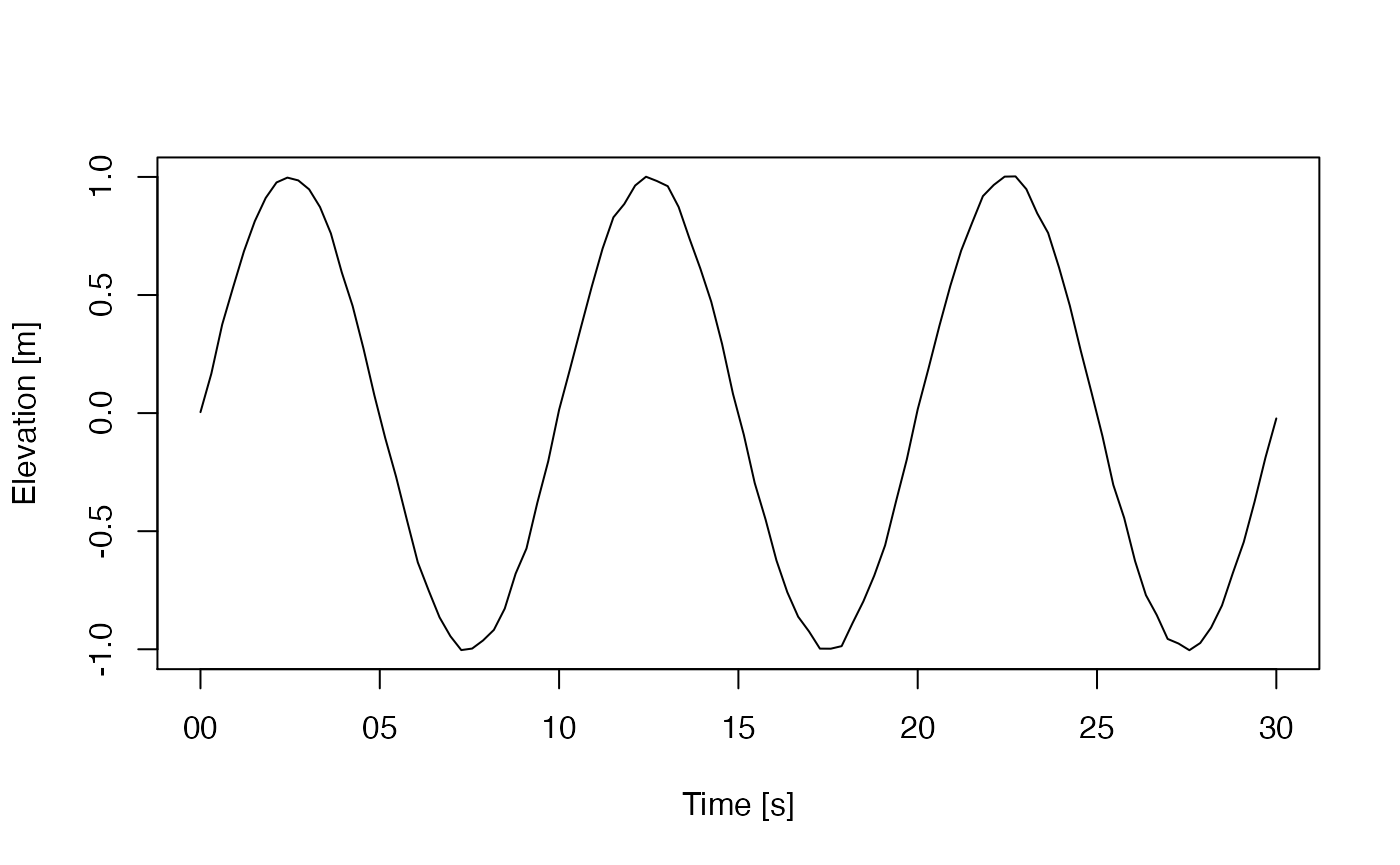
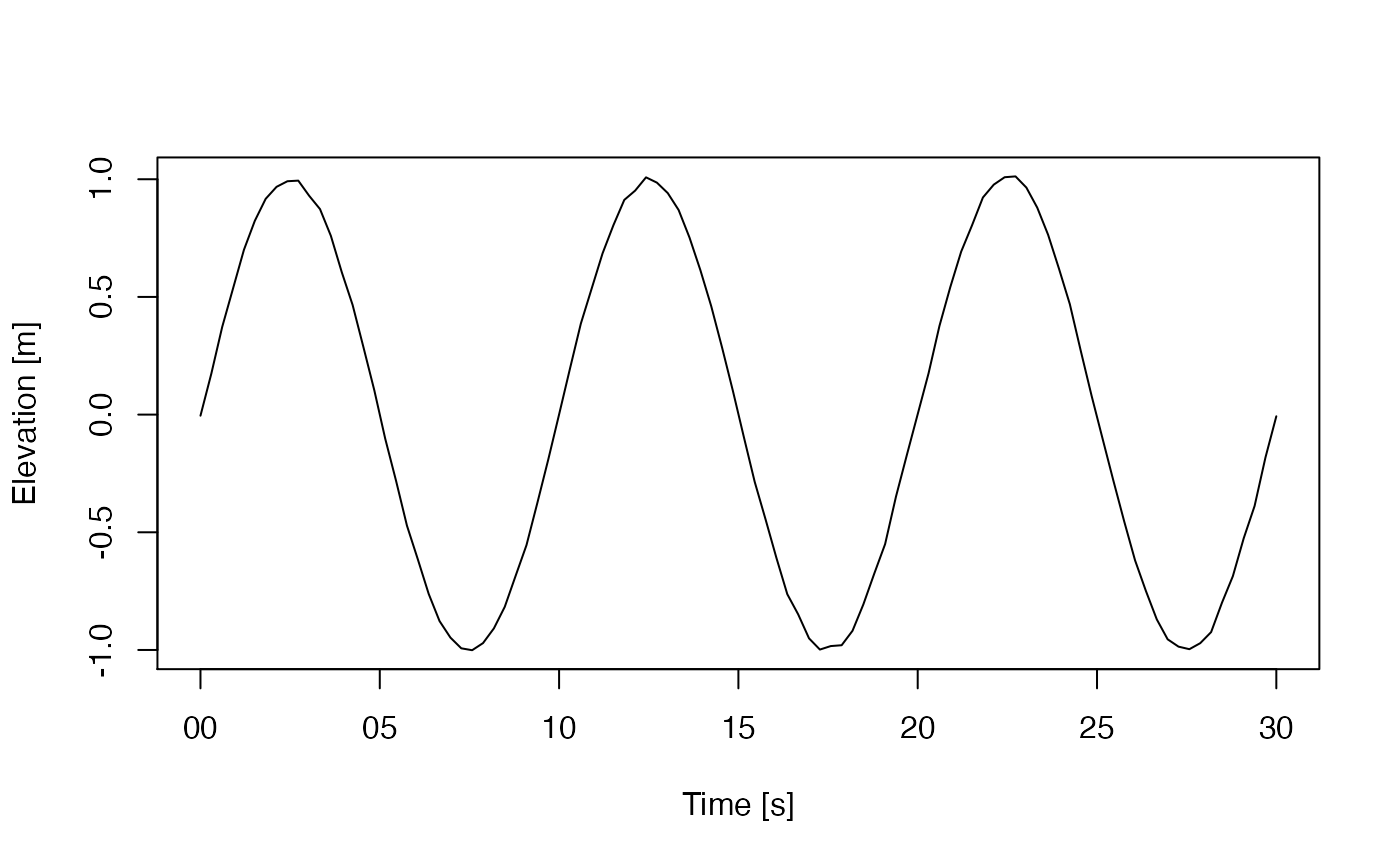
pkgdown rebuild (test: first fig in README)

diff --git a/docs/articles/subclassing.html b/docs/articles/subclassing.html
@@ -141,7 +141,7 @@
 <span class="co">#&gt;   .. ..$ flags: list()</span>
 <span class="co">#&gt;   ..@ data         : list()</span>
 <span class="co">#&gt;   ..@ processingLog:List of 2</span>
-<span class="co">#&gt;   .. ..$ time : POSIXct[1:1], format: "2021-01-27 12:00:09"</span>
+<span class="co">#&gt;   .. ..$ time : POSIXct[1:1], format: "2021-01-27 13:30:46"</span>
 <span class="co">#&gt;   .. ..$ value: chr "Create oce object"</span></code></pre></div>
 <p>As noted previously, it’s possible to insert <code>t</code>, <code>u</code>, and <code>v</code> directly into the <code>data</code> slot, but it’s better to use <code>oceSetData</code> to do that, because it can set up units, and it leaves a trail in the processing log.</p>
 <div class="sourceCode" id="cb4"><pre class="downlit sourceCode r">
@@ -164,12 +164,12 @@
 <span class="co">#&gt; </span>
 <span class="co">#&gt; * Processing Log</span>
 <span class="co">#&gt; </span>
-<span class="co">#&gt;     - 2021-01-27 12:00:09 UTC: `Create oce object`</span>
-<span class="co">#&gt;     - 2021-01-27 12:00:09 UTC: `oceSetData(object = o, name = "t", value = t, unit = list(unit = expression(s),     scale = ""))`</span>
-<span class="co">#&gt;     - 2021-01-27 12:00:09 UTC: `oceSetData(object = o, name = "u", value = u, unit = list(unit = expression(m/s),     scale = ""))`</span>
-<span class="co">#&gt;     - 2021-01-27 12:00:09 UTC: `oceSetData(object = o, name = "v", value = v, unit = list(unit = expression(m/s),     scale = ""))`</span>
-<span class="co">#&gt;     - 2021-01-27 12:00:09 UTC: `oceSetMetadata(object = o, name = "longitude", value = lon)`</span>
-<span class="co">#&gt;     - 2021-01-27 12:00:09 UTC: `oceSetMetadata(object = o, name = "latitude", value = lat)`</span></code></pre></div>
+<span class="co">#&gt;     - 2021-01-27 13:30:46 UTC: `Create oce object`</span>
+<span class="co">#&gt;     - 2021-01-27 13:30:46 UTC: `oceSetData(object = o, name = "t", value = t, unit = list(unit = expression(s),     scale = ""))`</span>
+<span class="co">#&gt;     - 2021-01-27 13:30:46 UTC: `oceSetData(object = o, name = "u", value = u, unit = list(unit = expression(m/s),     scale = ""))`</span>
+<span class="co">#&gt;     - 2021-01-27 13:30:46 UTC: `oceSetData(object = o, name = "v", value = v, unit = list(unit = expression(m/s),     scale = ""))`</span>
+<span class="co">#&gt;     - 2021-01-27 13:30:46 UTC: `oceSetMetadata(object = o, name = "longitude", value = lon)`</span>
+<span class="co">#&gt;     - 2021-01-27 13:30:46 UTC: `oceSetMetadata(object = o, name = "latitude", value = lat)`</span></code></pre></div>
 <p>and individual data components may be extracted with the <code><a href="https://rdrr.io/r/base/Extract.html">[[</a></code> notation</p>
 <div class="sourceCode" id="cb7"><pre class="downlit sourceCode r">
 <code class="sourceCode R"><span class="va">o</span><span class="op">[[</span><span class="st">"latitude"</span><span class="op">]</span><span class="op">]</span>                        <span class="co"># from metadata</span>
@@ -247,7 +247,7 @@
 <span class="co">#&gt; </span>
 <span class="co">#&gt; * Processing Log</span>
 <span class="co">#&gt; </span>
-<span class="co">#&gt;     - 2021-01-27 12:00:09 UTC: `create 'uv' object`</span>
+<span class="co">#&gt;     - 2021-01-27 13:30:46 UTC: `create 'uv' object`</span>
 <span class="co">#&gt; NULL</span></code></pre></div>
 <p>Finally, let’s make a custom method for <code>plot</code>. This is usually the most complicated part of handling any new object class, because there are usually many ways to look at data. (Some <code>oce</code> objects have over a dozen specialized plot styles.) Let’s suppose there are only two desired plot styles: one showing timeseries of <code>u</code> and <code>v</code> in a two panel plot, and the other showing how <code>u</code> and <code>v</code> covary.</p>
 <div class="sourceCode" id="cb14"><pre class="downlit sourceCode r">
@@ -319,7 +319,7 @@
 <span class="co">#&gt;   .. ..$ flags: list()</span>
 <span class="co">#&gt;   ..@ data         : list()</span>
 <span class="co">#&gt;   ..@ processingLog:List of 2</span>
-<span class="co">#&gt;   .. ..$ time : POSIXct[1:1], format: "2021-01-27 12:00:10"</span>
+<span class="co">#&gt;   .. ..$ time : POSIXct[1:1], format: "2021-01-27 13:30:47"</span>
 <span class="co">#&gt;   .. ..$ value: chr "Create oce object"</span></code></pre></div>
 <p>Notice that <code>w</code> three <code>oce</code> “slots”, named <code>metadata</code>, <code>data</code> and <code>processingLog</code>. These are inherited from <code>oce</code>. The first is meant to hold information about the data, such as a file-name, an instrument number, a location of sampling, etc. The second is meant to hold actual data or measurements. And the third, not normally accessed by the user directly, holds information about the object’s evolution (note that the object considers itself an <code>oce</code> object). The names of these three slots are usually enough to keep them straight in the analyst’s head, although it can sometimes be difficult deciding whether something belongs in <code>metadata</code> or <code>data</code>.</p>
 <p>The <code>oce</code> system also provides its objects with certain operators and functions. For example, <code><a href="https://rdrr.io/r/base/Extract.html">[[</a></code> can be used to retrieve the slots, items within the slots, and (in some cases) values that may be calculated from the contents of the slots (e.g. <code>ctd</code> and similar objects related to hydrography can return calculated potential temperature or Conservative Temperature, even though neither is typically stored in such datasets).</p>
@@ -352,7 +352,7 @@
 <span class="co">#&gt;   .. ..$ station: chr "STN01"</span>
 <span class="co">#&gt;   ..@ data         : list()</span>
 <span class="co">#&gt;   ..@ processingLog:List of 2</span>
-<span class="co">#&gt;   .. ..$ time : POSIXct[1:1], format: "2021-01-27 12:00:10"</span>
+<span class="co">#&gt;   .. ..$ time : POSIXct[1:1], format: "2021-01-27 13:30:47"</span>
 <span class="co">#&gt;   .. ..$ value: chr "Create oce object"</span></code></pre></div>
 <p>However, there is a better way to insert metadata, with the <code>oceSetMetadata</code> function, e.g.</p>
 <div class="sourceCode" id="cb26"><pre class="downlit sourceCode r">
@@ -382,15 +382,15 @@
 <span class="co">#&gt; * Time ranges from 2019-01-01 to 2019-01-01 00:00:30 with 100 samples and mean increment 0.3030303 s</span>
 <span class="co">#&gt; * Data Overview</span>
 <span class="co">#&gt; </span>
-<span class="co">#&gt;                 Min.       Mean   Max. Dim. NAs OriginalName</span>
-<span class="co">#&gt;     elevation -1.004 -0.0021451 1.0023  100   0            -</span>
+<span class="co">#&gt;                 Min.      Mean   Max. Dim. NAs OriginalName</span>
+<span class="co">#&gt;     elevation -1.001 0.0006672 1.0121  100   0            -</span>
 <span class="co">#&gt; </span>
 <span class="co">#&gt; * Processing Log</span>
 <span class="co">#&gt; </span>
-<span class="co">#&gt;     - 2021-01-27 12:00:10 UTC: `Create oce object`</span>
-<span class="co">#&gt;     - 2021-01-27 12:00:10 UTC: `oceSetMetadata(object = w, name = "serialNumber", value = 1234)`</span>
-<span class="co">#&gt;     - 2021-01-27 12:00:10 UTC: `oceSetData(object = w, name = "time", value = t)`</span>
-<span class="co">#&gt;     - 2021-01-27 12:00:10 UTC: `oceSetData(object = w, name = "elevation", value = e)`</span></code></pre></div>
+<span class="co">#&gt;     - 2021-01-27 13:30:47 UTC: `Create oce object`</span>
+<span class="co">#&gt;     - 2021-01-27 13:30:47 UTC: `oceSetMetadata(object = w, name = "serialNumber", value = 1234)`</span>
+<span class="co">#&gt;     - 2021-01-27 13:30:48 UTC: `oceSetData(object = w, name = "time", value = t)`</span>
+<span class="co">#&gt;     - 2021-01-27 13:30:48 UTC: `oceSetData(object = w, name = "elevation", value = e)`</span></code></pre></div>
 <p>This produces a useful summary not just of the data, but also of how the object was constructed. But we can do better. In some crazy world, someone might consider measuring elevation in feet, not metres, and so we ought to specify the unit. The way to do this is with the <code>unit</code> argument of <code>oceSetData</code>. This is a somewhat tricky argument, as a study of the result of <code><a href="../reference/oceSetData.html">?oceSetData</a></code> will reveal. For now, we just show a common way, without explanation, writing</p>
 <div class="sourceCode" id="cb31"><pre class="downlit sourceCode r">
 <code class="sourceCode R"><span class="va">w</span> <span class="op">&lt;-</span> <span class="fu"><a href="../reference/oceSetData.html">oceSetData</a></span><span class="op">(</span><span class="va">w</span>, <span class="st">"elevation"</span>, <span class="va">e</span>, unit<span class="op">=</span><span class="fu"><a href="https://rdrr.io/r/base/list.html">list</a></span><span class="op">(</span>unit<span class="op">=</span><span class="fu"><a href="https://rdrr.io/r/base/expression.html">expression</a></span><span class="op">(</span><span class="va">m</span><span class="op">)</span>,scale<span class="op">=</span><span class="st">""</span><span class="op">)</span><span class="op">)</span></code></pre></div>
@@ -400,16 +400,16 @@
 <span class="co">#&gt; * Time ranges from 2019-01-01 to 2019-01-01 00:00:30 with 100 samples and mean increment 0.3030303 s</span>
 <span class="co">#&gt; * Data Overview</span>
 <span class="co">#&gt; </span>
-<span class="co">#&gt;                     Min.       Mean   Max. Dim. NAs OriginalName</span>
-<span class="co">#&gt;     elevation [m] -1.004 -0.0021451 1.0023  100   0            -</span>
+<span class="co">#&gt;                     Min.      Mean   Max. Dim. NAs OriginalName</span>
+<span class="co">#&gt;     elevation [m] -1.001 0.0006672 1.0121  100   0            -</span>
 <span class="co">#&gt; </span>
 <span class="co">#&gt; * Processing Log</span>
 <span class="co">#&gt; </span>
-<span class="co">#&gt;     - 2021-01-27 12:00:10 UTC: `Create oce object`</span>
-<span class="co">#&gt;     - 2021-01-27 12:00:10 UTC: `oceSetMetadata(object = w, name = "serialNumber", value = 1234)`</span>
-<span class="co">#&gt;     - 2021-01-27 12:00:10 UTC: `oceSetData(object = w, name = "time", value = t)`</span>
-<span class="co">#&gt;     - 2021-01-27 12:00:10 UTC: `oceSetData(object = w, name = "elevation", value = e)`</span>
-<span class="co">#&gt;     - 2021-01-27 12:00:11 UTC: `oceSetData(object = w, name = "elevation", value = e, unit = list(unit = expression(m),     scale = ""))`</span></code></pre></div>
+<span class="co">#&gt;     - 2021-01-27 13:30:47 UTC: `Create oce object`</span>
+<span class="co">#&gt;     - 2021-01-27 13:30:47 UTC: `oceSetMetadata(object = w, name = "serialNumber", value = 1234)`</span>
+<span class="co">#&gt;     - 2021-01-27 13:30:48 UTC: `oceSetData(object = w, name = "time", value = t)`</span>
+<span class="co">#&gt;     - 2021-01-27 13:30:48 UTC: `oceSetData(object = w, name = "elevation", value = e)`</span>
+<span class="co">#&gt;     - 2021-01-27 13:30:48 UTC: `oceSetData(object = w, name = "elevation", value = e, unit = list(unit = expression(m),     scale = ""))`</span></code></pre></div>
 <p>Notice that we now have a unit on the elevation, but we  have an indication that the value of that quantity was defined twice. This processing-log feature is one of the big advantages of using <code>oceSetData</code> over direct insertion into an object.</p>
 </div>
 <div id="adding-specialized-functions" class="section level2">
@@ -470,12 +470,12 @@
 <span class="co">#&gt; * Time ranges from 2019-01-01 to 2019-01-01 00:00:30 with 100 samples and mean increment 0.3030303 s</span>
 <span class="co">#&gt; * Data Overview</span>
 <span class="co">#&gt; </span>
-<span class="co">#&gt;                     Min.       Mean   Max. Dim. NAs OriginalName</span>
-<span class="co">#&gt;     elevation [m] -1.004 -0.0021451 1.0023  100   0            -</span>
+<span class="co">#&gt;                     Min.      Mean   Max. Dim. NAs OriginalName</span>
+<span class="co">#&gt;     elevation [m] -1.001 0.0006672 1.0121  100   0            -</span>
 <span class="co">#&gt; </span>
 <span class="co">#&gt; * Processing Log</span>
 <span class="co">#&gt; </span>
-<span class="co">#&gt;     - 2021-01-27 12:00:11 UTC: `create 'wave' object`</span></code></pre></div>
+<span class="co">#&gt;     - 2021-01-27 13:30:48 UTC: `create 'wave' object`</span></code></pre></div>
 <p>Notice that the units now appear, without complication to the user. Oh, and this object now knows that it is a <code>wave</code> object, not an <code>oce</code> object  our little class is getting smarter by the minute!</p>
 </div>
 <div id="specializing-the-operator" class="section level2">
@@ -498,9 +498,9 @@
 <p>The test</p>
 <div class="sourceCode" id="cb39"><pre class="downlit sourceCode r">
 <code class="sourceCode R"><span class="va">w</span><span class="op">[[</span><span class="st">"peak"</span><span class="op">]</span><span class="op">]</span>
-<span class="co">#&gt; [1] 1.002294</span>
+<span class="co">#&gt; [1] 1.012113</span>
 <span class="fu"><a href="https://rdrr.io/r/utils/str.html">str</a></span><span class="op">(</span><span class="va">w</span><span class="op">[[</span><span class="st">"elevation"</span><span class="op">]</span><span class="op">]</span><span class="op">)</span>
-<span class="co">#&gt;  num [1:100] 0.00408 0.16699 0.37521 0.5323 0.68507 ...</span></code></pre></div>
+<span class="co">#&gt;  num [1:100] -0.00463 0.17421 0.37252 0.53645 0.70024 ...</span></code></pre></div>
 <p>verifies that our new code works for getting the peak value, and that it falls back to the <code>oce</code> code for other calls.</p>
 </div>
 </div>

diff --git a/docs/reference/as.section.html b/docs/reference/as.section.html
@@ -261,8 +261,8 @@ and these are assembled into a section to be returned.</p>
 #&gt;     2  fake -63.6339  44.6843     181    44
 #&gt; * Processing Log
 #&gt; 
-#&gt;     - 2021-01-27 11:57:15 UTC: `create 'section' object`
-#&gt;     - 2021-01-27 11:57:15 UTC: `as.section(salinity = c("ctd", "fake"))`</div><div class='input'><span class='co'>## vector of CTD objects</span>
+#&gt;     - 2021-01-27 13:27:54 UTC: `create 'section' object`
+#&gt;     - 2021-01-27 13:27:54 UTC: `as.section(salinity = c("ctd", "fake"))`</div><div class='input'><span class='co'>## vector of CTD objects</span>
 <span class='va'>ctds</span> <span class='op'>&lt;-</span> <span class='fu'><a href='https://rdrr.io/r/base/vector.html'>vector</a></span><span class='op'>(</span><span class='st'>"list"</span>, <span class='fl'>2</span><span class='op'>)</span>
 <span class='va'>ctds</span><span class='op'>[[</span><span class='fl'>1</span><span class='op'>]</span><span class='op'>]</span> <span class='op'>&lt;-</span> <span class='va'>ctd</span>
 <span class='va'>ctds</span><span class='op'>[[</span><span class='fl'>2</span><span class='op'>]</span><span class='op'>]</span> <span class='op'>&lt;-</span> <span class='va'>fake</span>
@@ -279,8 +279,8 @@ and these are assembled into a section to be returned.</p>
 #&gt;     2  fake -63.6339  44.6843     181    44
 #&gt; * Processing Log
 #&gt; 
-#&gt;     - 2021-01-27 11:57:15 UTC: `create 'section' object`
-#&gt;     - 2021-01-27 11:57:15 UTC: `as.section(salinity = ctds)`</div><div class='input'><span class='co'>## argo data (a subset)</span>
+#&gt;     - 2021-01-27 13:27:54 UTC: `create 'section' object`
+#&gt;     - 2021-01-27 13:27:54 UTC: `as.section(salinity = ctds)`</div><div class='input'><span class='co'>## argo data (a subset)</span>
 <span class='fu'><a href='https://rdrr.io/r/utils/data.html'>data</a></span><span class='op'>(</span><span class='va'>argo</span><span class='op'>)</span>
 <span class='va'>sec3</span> <span class='op'>&lt;-</span> <span class='fu'>as.section</span><span class='op'>(</span><span class='fu'><a href='https://rdrr.io/r/base/subset.html'>subset</a></span><span class='op'>(</span><span class='va'>argo</span>, <span class='va'>profile</span><span class='op'>&lt;</span><span class='fl'>5</span><span class='op'>)</span><span class='op'>)</span>
 <span class='fu'><a href='https://rdrr.io/r/base/summary.html'>summary</a></span><span class='op'>(</span><span class='va'>sec3</span><span class='op'>)</span>
@@ -297,8 +297,8 @@ and these are assembled into a section to be returned.</p>
 #&gt;     4     4 -22.4160  61.2520      56  1768
 #&gt; * Processing Log
 #&gt; 
-#&gt;     - 2021-01-27 11:57:15 UTC: `create 'section' object`
-#&gt;     - 2021-01-27 11:57:15 UTC: `as.section(salinity = subset(argo, profile &lt; 5))`</div><div class='input'>
+#&gt;     - 2021-01-27 13:27:54 UTC: `create 'section' object`
+#&gt;     - 2021-01-27 13:27:54 UTC: `as.section(salinity = subset(argo, profile &lt; 5))`</div><div class='input'>
 </div></pre>
   </div>
   <div class="col-md-3 hidden-xs hidden-sm" id="pkgdown-sidebar">

diff --git a/docs/reference/as.cm.html b/docs/reference/as.cm.html
@@ -225,7 +225,7 @@ by specifying higher <code>debug</code> values.</p></td>
 </div><div class='output co'>#&gt; Cm summary
 #&gt; ----------
 #&gt; 
-#&gt; * Time ranges from 2021-01-27 07:57:13 to 2021-01-27 07:58:03 with 51 samples and mean increment 1 s
+#&gt; * Time ranges from 2021-01-27 09:27:53 to 2021-01-27 09:28:43 with 51 samples and mean increment 1 s
 #&gt; * Data Overview
 #&gt; 
 #&gt;                        Min.      Mean   Max. Dim. NAs OriginalName
@@ -235,8 +235,8 @@ by specifying higher <code>debug</code> values.</p></td>
 #&gt; 
 #&gt; * Processing Log
 #&gt; 
-#&gt;     - 2021-01-27 11:57:13 UTC: `create 'cm' object`
-#&gt;     - 2021-01-27 11:57:13 UTC: `as.cm(time = t, u = u, v = v, pressure = p)`</div><div class='input'>
+#&gt;     - 2021-01-27 13:27:53 UTC: `create 'cm' object`
+#&gt;     - 2021-01-27 13:27:53 UTC: `as.cm(time = t, u = u, v = v, pressure = p)`</div><div class='input'>
 <span class='co'># Example 2: creation from an adv object</span>
 <span class='fu'><a href='https://rdrr.io/r/utils/data.html'>data</a></span><span class='op'>(</span><span class='va'>adv</span><span class='op'>)</span>
 <span class='fu'><a href='https://rdrr.io/r/base/summary.html'>summary</a></span><span class='op'>(</span><span class='fu'>as.cm</span><span class='op'>(</span><span class='va'>adv</span><span class='op'>)</span><span class='op'>)</span>
@@ -262,7 +262,7 @@ by specifying higher <code>debug</code> values.</p></td>
 #&gt;     - 2015-12-23 17:53:55 UTC: `use aquadoppHR heading; despike own pitch and roll`
 #&gt;     - 2015-12-23 17:54:11 UTC: `beamToXyzAdv(x = x)`
 #&gt;     - 2015-12-23 17:54:34 UTC: `xyzToEnu(x, declination=-18.099, horizontalCase=TRUE, sensorOrientiation=upward, debug=0)`
-#&gt;     - 2021-01-27 11:57:13 UTC: `as.cm(time = adv)`</div><div class='input'>
+#&gt;     - 2021-01-27 13:27:53 UTC: `as.cm(time = adv)`</div><div class='input'>
 </div></pre>
   </div>
   <div class="col-md-3 hidden-xs hidden-sm" id="pkgdown-sidebar">

diff --git a/docs/reference/as.ctd.html b/docs/reference/as.ctd.html
@@ -453,9 +453,9 @@ Engineering</em>, volume <strong>5</strong>, pages 22-23.</p>
 #&gt; 
 #&gt; * Processing Log
 #&gt; 
-#&gt;     - 2021-01-27 11:57:14 UTC: `create 'ctd' object`
-#&gt;     - 2021-01-27 11:57:14 UTC: `as.ctd(salinity = salinity, temperature = temperature, pressure = pressure)`
-#&gt;     - 2021-01-27 11:57:14 UTC: `oceSetData(object = ctd, name = "fluorescence", value = fluo,     unit = list(unit = expression(mg/m^3), scale = ""))`</div><div class='input'>
+#&gt;     - 2021-01-27 13:27:53 UTC: `create 'ctd' object`
+#&gt;     - 2021-01-27 13:27:53 UTC: `as.ctd(salinity = salinity, temperature = temperature, pressure = pressure)`
+#&gt;     - 2021-01-27 13:27:53 UTC: `oceSetData(object = ctd, name = "fluorescence", value = fluo,     unit = list(unit = expression(mg/m^3), scale = ""))`</div><div class='input'>
 <span class='co'>## 2. fake data, with supplied units (which are the defaults, actually)</span>
 <span class='va'>ctd</span> <span class='op'>&lt;-</span> <span class='fu'>as.ctd</span><span class='op'>(</span><span class='va'>salinity</span>, <span class='va'>temperature</span>, <span class='va'>pressure</span>,
     units<span class='op'>=</span><span class='fu'><a href='https://rdrr.io/r/base/list.html'>list</a></span><span class='op'>(</span>salinity<span class='op'>=</span><span class='fu'><a href='https://rdrr.io/r/base/list.html'>list</a></span><span class='op'>(</span>unit<span class='op'>=</span><span class='fu'><a href='https://rdrr.io/r/base/expression.html'>expression</a></span><span class='op'>(</span><span class='op'>)</span>, scale<span class='op'>=</span><span class='st'>"PSS-78"</span><span class='op'>)</span>,

diff --git a/docs/reference/as.sealevel.html b/docs/reference/as.sealevel.html
@@ -299,8 +299,8 @@ with them.</p>
 #&gt; 
 #&gt; * Processing Log
 #&gt; 
-#&gt;     - 2021-01-27 11:57:15 UTC: `create 'sealevel' object`
-#&gt;     - 2021-01-27 11:57:15 UTC: `as.sealevel(elevation = elevation)`</div><div class='input'>
+#&gt;     - 2021-01-27 13:27:54 UTC: `create 'sealevel' object`
+#&gt;     - 2021-01-27 13:27:54 UTC: `as.sealevel(elevation = elevation)`</div><div class='input'>
 <span class='co'># As above, but start at the Y2K time.</span>
 <span class='va'>time</span> <span class='op'>&lt;-</span> <span class='fu'><a href='https://rdrr.io/r/base/as.POSIXlt.html'>as.POSIXct</a></span><span class='op'>(</span><span class='st'>"2000-01-01"</span><span class='op'>)</span> <span class='op'>+</span> <span class='va'>h</span> <span class='op'>*</span> <span class='fl'>3600</span>
 <span class='va'>sl</span> <span class='op'>&lt;-</span> <span class='fu'>as.sealevel</span><span class='op'>(</span><span class='va'>elevation</span>, <span class='va'>time</span><span class='op'>)</span>
@@ -320,8 +320,8 @@ with them.</p>
 #&gt; 
 #&gt; * Processing Log
 #&gt; 
-#&gt;     - 2021-01-27 11:57:15 UTC: `create 'sealevel' object`
-#&gt;     - 2021-01-27 11:57:15 UTC: `as.sealevel(elevation = elevation, time = time)`</div></pre>
+#&gt;     - 2021-01-27 13:27:54 UTC: `create 'sealevel' object`
+#&gt;     - 2021-01-27 13:27:54 UTC: `as.sealevel(elevation = elevation, time = time)`</div></pre>
   </div>
   <div class="col-md-3 hidden-xs hidden-sm" id="pkgdown-sidebar">
     <nav id="toc" data-toggle="toc" class="sticky-top">

diff --git a/docs/reference/read.xbt.html b/docs/reference/read.xbt.html
@@ -232,7 +232,7 @@ https://pages.uoregon.edu/drt/MGL0910_Science_Report/attachments/MK21_ISA_Manual
 </div><div class='output co'>#&gt; xbt summary
 #&gt; -----------
 #&gt; 
-#&gt; * File source:        "/private/var/folders/8b/l4h64m1j22v5pb7vj049ff140000gn/T/Rtmpd71hSO/temp_libpath6cbb3167b5d/oce/extdata/xbt.edf"
+#&gt; * File source:        "/private/var/folders/8b/l4h64m1j22v5pb7vj049ff140000gn/T/RtmpQHfKkm/temp_libpath73b2360fc8bb/oce/extdata/xbt.edf"
 #&gt; * Serial Number:      0
 #&gt; * Longitude:          4.005
 #&gt; * Latitude:           -4
@@ -246,8 +246,8 @@ https://pages.uoregon.edu/drt/MGL0910_Science_Report/attachments/MK21_ISA_Manual
 #&gt; 
 #&gt; * Processing Log
 #&gt; 
-#&gt;     - 2021-01-27 11:58:41 UTC: `create 'xbt' object`
-#&gt;     - 2021-01-27 11:58:41 UTC: `read.xbt.edf(file = file)`</div><div class='input'><span class='fu'><a href='https://rdrr.io/r/graphics/plot.default.html'>plot</a></span><span class='op'>(</span><span class='va'>xbt</span><span class='op'>)</span>
+#&gt;     - 2021-01-27 13:29:19 UTC: `create 'xbt' object`
+#&gt;     - 2021-01-27 13:29:19 UTC: `read.xbt.edf(file = file)`</div><div class='input'><span class='fu'><a href='https://rdrr.io/r/graphics/plot.default.html'>plot</a></span><span class='op'>(</span><span class='va'>xbt</span><span class='op'>)</span>
 </div><div class='img'><img src='read.xbt-1.png' alt='' width='700' height='433' /></div><div class='input'>
 </div></pre>
   </div>

diff --git a/docs/reference/tidem.html b/docs/reference/tidem.html
@@ -459,8 +459,8 @@ Computers and Geosciences, 28, 929-937.</p>
 #&gt; Signif. codes:  0 ‘***’ 0.001 ‘**’ 0.01 ‘*’ 0.05 ‘.’ 0.1 ‘ ’ 1
 #&gt; * Processing Log
 #&gt; 
-#&gt;     - 2021-01-27 11:59:23 UTC: `create 'tidem' object`
-#&gt;     - 2021-01-27 11:59:23 UTC: `tidem(t = sealevelTuktoyaktuk)`</div><div class='input'>
+#&gt;     - 2021-01-27 13:30:00 UTC: `create 'tidem' object`
+#&gt;     - 2021-01-27 13:30:00 UTC: `tidem(t = sealevelTuktoyaktuk)`</div><div class='input'>
 <span class='co'># AIC analysis</span>
 <span class='fu'><a href='https://rdrr.io/r/stats/extractAIC.html'>extractAIC</a></span><span class='op'>(</span><span class='va'>tide</span><span class='op'>[[</span><span class='st'>"model"</span><span class='op'>]</span><span class='op'>]</span><span class='op'>)</span>
 </div><div class='output co'>#&gt; [1]   71.0000 -606.0823</div><div class='input'>
@@ -493,8 +493,8 @@ Computers and Geosciences, 28, 929-937.</p>
 #&gt; Signif. codes:  0 ‘***’ 0.001 ‘**’ 0.01 ‘*’ 0.05 ‘.’ 0.1 ‘ ’ 1
 #&gt; * Processing Log
 #&gt; 
-#&gt;     - 2021-01-27 11:59:23 UTC: `create 'tidem' object`
-#&gt;     - 2021-01-27 11:59:23 UTC: `tidem(t = sl)`</div><div class='input'>
+#&gt;     - 2021-01-27 13:30:00 UTC: `create 'tidem' object`
+#&gt;     - 2021-01-27 13:30:00 UTC: `tidem(t = sl)`</div><div class='input'>
 </div></pre>
   </div>
   <div class="col-md-3 hidden-xs hidden-sm" id="pkgdown-sidebar">

diff --git a/docs/reference/read.xbt.edf.html b/docs/reference/read.xbt.edf.html
@@ -214,7 +214,7 @@ can find a way to otherwise silence the NOTE.</p>
 </div><div class='output co'>#&gt; xbt summary
 #&gt; -----------
 #&gt; 
-#&gt; * File source:        "/private/var/folders/8b/l4h64m1j22v5pb7vj049ff140000gn/T/Rtmpd71hSO/temp_libpath6cbb3167b5d/oce/extdata/xbt.edf"
+#&gt; * File source:        "/private/var/folders/8b/l4h64m1j22v5pb7vj049ff140000gn/T/RtmpQHfKkm/temp_libpath73b2360fc8bb/oce/extdata/xbt.edf"
 #&gt; * Serial Number:      0
 #&gt; * Longitude:          4.005
 #&gt; * Latitude:           -4
@@ -228,8 +228,8 @@ can find a way to otherwise silence the NOTE.</p>
 #&gt; 
 #&gt; * Processing Log
 #&gt; 
-#&gt;     - 2021-01-27 11:58:42 UTC: `create 'xbt' object`
-#&gt;     - 2021-01-27 11:58:42 UTC: `read.xbt.edf(file = file)`</div><div class='input'><span class='fu'><a href='https://rdrr.io/r/graphics/plot.default.html'>plot</a></span><span class='op'>(</span><span class='va'>xbt</span><span class='op'>)</span>
+#&gt;     - 2021-01-27 13:29:19 UTC: `create 'xbt' object`
+#&gt;     - 2021-01-27 13:29:19 UTC: `read.xbt.edf(file = file)`</div><div class='input'><span class='fu'><a href='https://rdrr.io/r/graphics/plot.default.html'>plot</a></span><span class='op'>(</span><span class='va'>xbt</span><span class='op'>)</span>
 </div><div class='img'><img src='read.xbt.edf-1.png' alt='' width='700' height='433' /></div><div class='input'>
 </div></pre>
   </div>

diff --git a/docs/reference/initialize-ctd-method.html b/docs/reference/initialize-ctd-method.html
@@ -301,7 +301,7 @@ on elements stored in <code>ctd</code> objects.</p>
 #&gt; 
 #&gt; * Processing Log
 #&gt; 
-#&gt;     - 2021-01-27 11:57:41 UTC: `create 'ctd' object`</div><div class='input'><span class='fu'><a href='https://rdrr.io/r/graphics/plot.default.html'>plot</a></span><span class='op'>(</span><span class='va'>ctd</span>, eos<span class='op'>=</span><span class='st'>"unesco"</span><span class='op'>)</span>
+#&gt;     - 2021-01-27 13:28:18 UTC: `create 'ctd' object`</div><div class='input'><span class='fu'><a href='https://rdrr.io/r/graphics/plot.default.html'>plot</a></span><span class='op'>(</span><span class='va'>ctd</span>, eos<span class='op'>=</span><span class='st'>"unesco"</span><span class='op'>)</span>
 </div><div class='img'><img src='initialize-ctd-method-1.png' alt='' width='700' height='433' /></div><div class='input'>
 <span class='co'>## 3. as 2, but insert location and plot with GSW equation of state.</span>
 <span class='va'>ctd</span> <span class='op'>&lt;-</span> <span class='fu'><a href='oceSetMetadata.html'>oceSetMetadata</a></span><span class='op'>(</span><span class='va'>ctd</span>, <span class='st'>"latitude"</span>, <span class='fl'>44</span><span class='op'>)</span>

diff --git a/docs/reference/ctd-class.html b/docs/reference/ctd-class.html
@@ -369,8 +369,8 @@ and sufficiently skilled users may even manipulate the contents directly.</p>
 #&gt; 
 #&gt; * Processing Log
 #&gt; 
-#&gt;     - 2021-01-27 11:57:24 UTC: `create 'ctd' object`
-#&gt;     - 2021-01-27 11:57:24 UTC: `as.ctd(salinity = 35 + 1:3/10, temperature = 10 - 1:3/10, pressure = 1:3)`</div><div class='input'>
+#&gt;     - 2021-01-27 13:28:02 UTC: `create 'ctd' object`
+#&gt;     - 2021-01-27 13:28:02 UTC: `as.ctd(salinity = 35 + 1:3/10, temperature = 10 - 1:3/10, pressure = 1:3)`</div><div class='input'>
 <span class='co'># 2. Fix a typo in a station latitude (fake! it's actually okay)</span>
 <span class='fu'><a href='https://rdrr.io/r/utils/data.html'>data</a></span><span class='op'>(</span><span class='va'>ctd</span><span class='op'>)</span>
 <span class='va'>ctd</span> <span class='op'>&lt;-</span> <span class='fu'><a href='oceSetMetadata.html'>oceSetMetadata</a></span><span class='op'>(</span><span class='va'>ctd</span>, <span class='st'>"latitude"</span>, <span class='va'>ctd</span><span class='op'>[[</span><span class='st'>"latitude"</span><span class='op'>]</span><span class='op'>]</span><span class='op'>-</span><span class='fl'>0.001</span>,

diff --git a/docs/articles/adp.html b/docs/articles/adp.html
@@ -320,8 +320,8 @@
 <span class="co">#&gt; Signif. codes:  0 '***' 0.001 '**' 0.01 '*' 0.05 '.' 0.1 ' ' 1</span>
 <span class="co">#&gt; * Processing Log</span>
 <span class="co">#&gt; </span>
-<span class="co">#&gt;     - 2021-01-27 11:59:37 UTC: `create 'tidem' object`</span>
-<span class="co">#&gt;     - 2021-01-27 11:59:37 UTC: `tidem(t = as.sealevel(pressure, time))`</span></code></pre></div>
+<span class="co">#&gt;     - 2021-01-27 13:30:14 UTC: `create 'tidem' object`</span>
+<span class="co">#&gt;     - 2021-01-27 13:30:14 UTC: `tidem(t = as.sealevel(pressure, time))`</span></code></pre></div>
 <p>(Note that it fitted for M2, but not S2, because the Rayleigh criterion prevents inferring both, and the conventional tidal analysis favours M2 over S2 if the time series is too short to fit for more than one semi-diurnal constituent.)</p>
 <p>A useful step might be to draw a tidal fit along with the data. It makes sense to construct a finer time grid, to get a smooth curve, as in the following (see <code><a href="../reference/predict.tidem.html">?predict.tidem</a></code>).</p>
 <div class="sourceCode" id="cb26"><pre class="downlit sourceCode r">

diff --git a/docs/reference/read.adp.rdi.html b/docs/reference/read.adp.rdi.html
@@ -601,7 +601,7 @@ P/N 957-6171-00 (June 2001) <code>WinRiver User Guide International Version.pdf.
 #&gt; * Instrument:         adcp
 #&gt; * Serial number:      unknown
 #&gt; * Firmware version:   16.28
-#&gt; * Source filename:    ``/private/var/folders/8b/l4h64m1j22v5pb7vj049ff140000gn/T/Rtmpd71hSO/temp_libpath6cbb3167b5d/oce/extdata/adp_rdi.000``
+#&gt; * Source filename:    ``/private/var/folders/8b/l4h64m1j22v5pb7vj049ff140000gn/T/RtmpQHfKkm/temp_libpath73b2360fc8bb/oce/extdata/adp_rdi.000``
 #&gt; * Location:           unknown latitude, unknown longitude
 #&gt; * Number of profiles: 9 
 #&gt; * Number of cells:    84 
@@ -656,7 +656,7 @@ P/N 957-6171-00 (June 2001) <code>WinRiver User Guide International Version.pdf.
 #&gt; 
 #&gt; * Processing Log
 #&gt; 
-#&gt;     - 2021-01-27 11:58:33 UTC: `read.adp.rdi(file = system.file("extdata", "adp_rdi.000", package = "oce"))`</div><div class='input'>
+#&gt;     - 2021-01-27 13:29:10 UTC: `read.adp.rdi(file = system.file("extdata", "adp_rdi.000", package = "oce"))`</div><div class='input'>
 </div></pre>
   </div>
   <div class="col-md-3 hidden-xs hidden-sm" id="pkgdown-sidebar">
